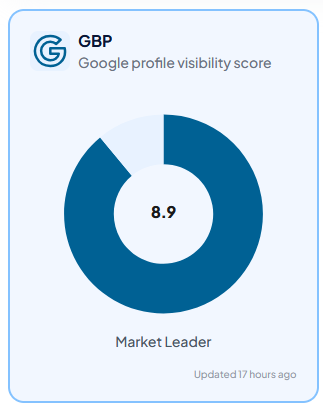
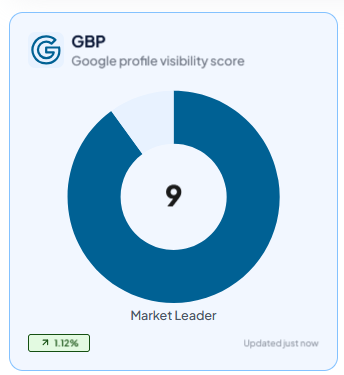
feat: Update Papa Vito's deck with rerun analysis (NAPWH 10pts, GBP 9.00, Total 8.44)

diff --git a/index.html b/index.html
@@ -481,7 +481,7 @@
 
         <!-- Embedded Actual Screenshot -->
         <div class="screenshot-frame">
-          <img src="assets/sample-business-papa-vitos.jpg" alt="Papa Vito's Italian Restaurant And Pizza Kitchen Sample Business Audit Screenshot" class="screenshot-img">
+          <img src="assets/sample-business-papa-vitos.png" alt="Papa Vito's Italian Restaurant And Pizza Kitchen Sample Business Audit Screenshot" class="screenshot-img">
         </div>
 
       </div>
@@ -520,7 +520,7 @@
           </div>
 
           <!-- GBP Audit Metric Card Image (Exact, Crisp Image) -->
-          <img src="assets/papa-vitos-gbp-card.png" alt="GBP Score 8.9 - Market Leader" style="width: 100%; max-width: 250px; height: auto; border-radius: 14px; box-shadow: 0 10px 24px rgba(15, 23, 42, 0.08); display: block;">
+          <img src="assets/papa-vitos-gbp-card.png" alt="GBP Score 9.00 - Market Leader" style="width: 100%; max-width: 250px; height: auto; border-radius: 14px; box-shadow: 0 10px 24px rgba(15, 23, 42, 0.08); display: block;">
         </div>
 
         <!-- Right Table Card -->
@@ -614,7 +614,7 @@
                 <td class="col-contrib">0.90</td>
               </tr>
 
-              <!-- NAP + WH: 5% -> 0.40 -->
+              <!-- NAP + WH: 5% -> 0.50 -->
               <tr>
                 <td>
                   <div class="cat-title">
@@ -622,7 +622,7 @@
                   </div>
                 </td>
                 <td class="col-weight">5%</td>
-                <td class="col-contrib">0.40</td>
+                <td class="col-contrib">0.50</td>
               </tr>
 
               <!-- All Fields: 5% -> 0.15 -->
@@ -644,7 +644,7 @@
                   <span class="total-badge">100%</span>
                 </td>
                 <td class="col-contrib">
-                  <span class="total-contrib-score">8.90 / 10</span>
+                  <span class="total-contrib-score">9.00 / 10</span>
                 </td>
               </tr>
             </tfoot>
@@ -2110,20 +2110,20 @@
                   </tr>
                 </thead>
                 <tbody>
-                  <!-- Row 1: 5 of 5 -->
-                  <tr>
-                    <td>Name, Address, Phone, Website, Hours</td>
-                    <td style="text-align: center;">10</td>
-                    <td style="text-align: right;">0.50</td>
+                  <!-- Row 1: 5 of 5 (Active for Papa Vito's) -->
+                  <tr class="active-tier">
+                    <td style="font-weight: 700;">Name, Address, Phone, Website, Hours</td>
+                    <td style="text-align: center; font-weight: 700;">10</td>
+                    <td style="text-align: right; font-weight: 700;">0.50</td>
                     <td><span class="text-strength">Profile Strengths</span></td>
                     <td>“phone number,” “website,” “operating hours”</td>
                   </tr>
 
-                  <!-- Row 2: 4 of 5 (Active for Papa Vito's: Hours missing) -->
-                  <tr class="active-tier">
-                    <td style="font-weight: 700;">Name, Address, Phone, Website; Hours missing</td>
-                    <td style="text-align: center; font-weight: 700;">8</td>
-                    <td style="text-align: right; font-weight: 700;">0.40</td>
+                  <!-- Row 2: 4 of 5 -->
+                  <tr>
+                    <td>Name, Address, Phone, Website; Hours missing</td>
+                    <td style="text-align: center;">8</td>
+                    <td style="text-align: right;">0.40</td>
                     <td><span class="text-both">Both sections</span></td>
                     <td>Strength: “phone number,” “website” • Opportunity: “No operating hours.”</td>
                   </tr>
@@ -2198,11 +2198,11 @@
                     <span class="calc-step-num">1</span>
                     <div class="calc-step-label-group">
                       <span class="calc-step-label">NAPWH Fields Present</span>
-                      <span class="calc-step-formula-sub">4 of 5 fields (Hours missing)</span>
+                      <span class="calc-step-formula-sub">5 of 5 fields (All fields present)</span>
                     </div>
                   </div>
                   <div class="calc-step-val">
-                    <span class="calc-pill-points">8 points</span>
+                    <span class="calc-pill-points">10 points</span>
                   </div>
                 </div>
 
@@ -2212,11 +2212,11 @@
                     <span class="calc-step-num calc-num-final">2</span>
                     <div class="calc-step-label-group">
                       <span class="calc-step-label">GBP Contribution (5%)</span>
-                      <span class="calc-step-formula-sub">8 × 5% =</span>
+                      <span class="calc-step-formula-sub">10 × 5% =</span>
                     </div>
                   </div>
                   <div class="calc-final-badge-wrap">
-                    <span class="calc-badge-total">+0.40 point</span>
+                    <span class="calc-badge-total">+0.50 point</span>
                   </div>
                 </div>
               </div>
